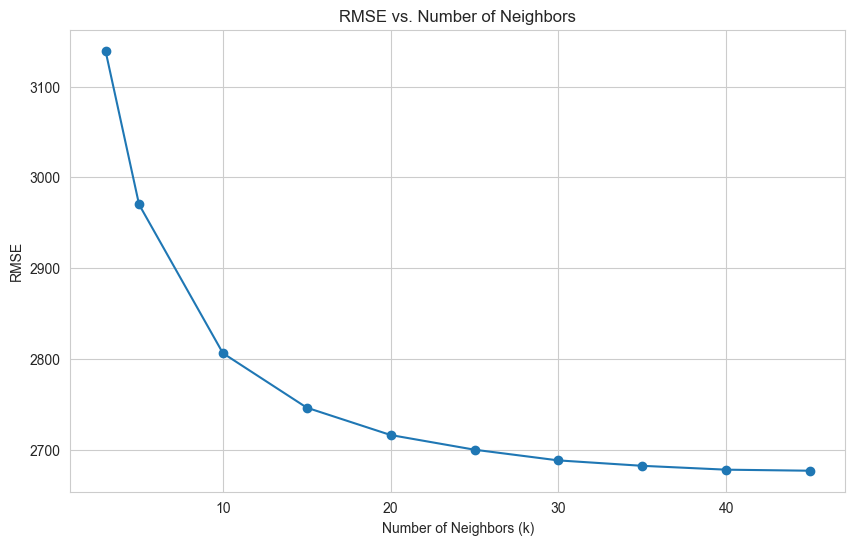
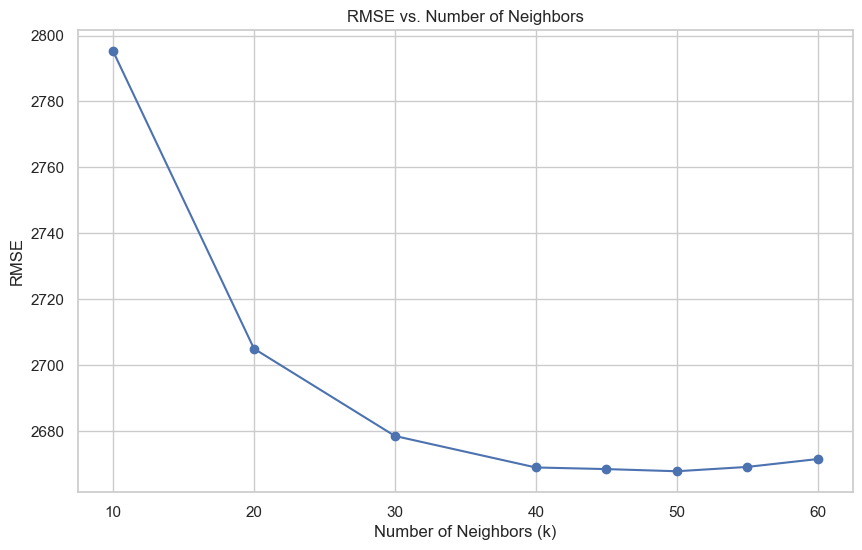
Energy analysis blog final draft v1

diff --git a/my_flask_app/templates/energy_analysis_blog.html b/my_flask_app/templates/energy_analysis_blog.html
@@ -14,7 +14,7 @@
     </div></i></p>
           
 
-    [WIP] Follow along on <a href="https://github.com/zoemcbride/energy-data-lab">my Github repo</a>!
+    Follow along on <a href="https://github.com/zoemcbride/energy-data-lab">my Github repo</a>!
     <p><p><p>
 
     <h3>Intro & Motivation</h3>
@@ -172,6 +172,7 @@
         <li>Season, derived from the month, one-hot encoded as true/false for each season</li>
         <li>Hour of the day, transformed using both sin(2pi*x) and cos(2pi*x) to indicate the cyclical nature of the hour feature</li>
         <li>Previous day load, scaled with a standard scalar</li>
+        <li>Spanish holiday binary, where 1 represents a holiday (such as Christmas on 12/25) and 0 represents no holiday</li>
       </ul>
       The target vector, of course, was the total actual load. The benchmarking vector was the total load forecasted by the TSO.
     </p>
@@ -184,7 +185,7 @@
 
 
     <h4>K-Nearest Neighbors (KNN)</h4>
-    <!--<img src="{{ url_for('static', filename='images/knn_nearestneighbors_rmse.png') }}" alt="KNN RMSE versus Number of Neighbors" class="center" style="
+    <img src="{{ url_for('static', filename='images/knn_nearestneighbors_rmse.png') }}" alt="KNN RMSE versus Number of Neighbors" class="center" style="
             max-width: 100%;
             max-height: 400px;
             margin-left: auto;
@@ -192,12 +193,12 @@
             align-self: center;
             display: block;
             ">
-    With KNN, the only real hyperparameter to play with is the number of neighbors (k). The above graph shows the root mean squared error (RMSE) plotted against the number of neighbors (k) across all five cross validation folds. As can be seen in the above graph, around k=40 the RMSE plateaus, suggesting that increasing k further will not significantly improve the model's performance. Thus, from here I calculate the final mean absolute error (MAE) and RMSE of our KNN model using k=40 against the test set. I can then similarly calculate the RMSE for the benchmark. Thus, the final numbers for my KNN model are:
+    With KNN, the only real hyperparameter to play with is the number of neighbors (k). The above graph shows the root mean squared error (RMSE) plotted against the number of neighbors (k) across all five cross validation folds. As can be seen in the above graph, around k=50 the RMSE plateaus, suggesting that increasing k further will not significantly improve the model's performance. Thus, from here I calculate the final mean absolute error (MAE) and RMSE of our KNN model using k=50 against the test set. I can then similarly calculate the RMSE for the benchmark. Thus, the final numbers for my KNN model are:
     <ul>
-      <li>My KNN Model RMSE: 2553.0 MW</li>
+      <li>My KNN Model RMSE: 2538.92 MW</li>
       <li>Benchmark RMSE: 378.28 MW</li>
 
-      <li>My kNN model's RMSE is around 8.89% of the mean load value.</li>
+      <li>My kNN model's RMSE is around 8.84% of the mean load value.</li>
       <li>The benchmark's RMSE is around 1.32% of the mean load value.</li>
     </ul>
 
@@ -213,11 +214,10 @@
     
     <p class="opening-paragraph">Overall, while my KNN model could certainly be improved upon, it seems to capture the overall trend and shape of the load effectively.  However, it struggles with the magnitude, generally underpredicting (though occasionally overpredicting) the peak load values. </p>
 
-    -->    
 
     <h4>Random Forest (RF)</h4>
-    <!--
-    <p class="opening-paragraph"></p>
+    
+    
     <img src="{{ url_for('static', filename='images/rf_numbertrees_rmse.png') }}" alt="RF RMSE versus Number of Trees" class="center" style="
             max-width: 100%;
             max-height: 400px;
@@ -226,16 +226,19 @@
             align-self: center;
             display: block;
             ">
-    With RF, there are several hyperparameters you can tune. To start, I looked into the number of trees. The above graph shows the root mean squared error (RMSE) plotted against the number of trees (n_estimators) across all five cross validation folds. As can be seen in the above graph, around n_estimators=200 the RMSE plateaus, suggesting that increasing the number of trees further will not significantly improve the model's performance. Thus, from here I calculate the final mean absolute error (MAE) and RMSE of our RF model using n_estimators=200 against the test set. I can then similarly calculate the RMSE for the benchmark. Thus, the final numbers for my RF model are:
+
+    <p class="opening-paragraph">With RF, there are several hyperparameters you can tune. To start, I looked into the number of trees. The above graph shows the root mean squared error (RMSE) plotted against the number of trees (n_estimators) across all five cross validation folds for one iteration of my RF model. As can be seen in the above graph, around n_estimators = 200 to 250 the RMSE plateaus, suggesting that increasing the number of trees further will not significantly improve the model's performance. From here, I then evaluated two other hyperparameters -- maximum depth of the trees and maximum number of features to include -- to further improve the performance of the RF model.  After hyperparameter tuning, I determined the best model had 250 trees with a maximum depth of 10 and maximum number of features of 5.  The max depth parameter controls the maximum number of levels in each decision tree; limiting depth can prevent overfitting by reducing the complexity of the model. Conversely, too shallow trees might not capture sufficient complexity, leading to underfitting. The max features parameter determines how many features each tree is allowed to try to split on at each node, and setting this can help ensure that trees in the ensemble are diverse, which often improves model performance due to the ensemble capturing a wider array of patterns in the data.</p>
+     
+     <p class="opening-paragraph">Next, I can calculate the final RMSE of our RF model using 250 trees of maximum depth of 10 and 5 features against the test set. I can then similarly calculate the RMSE for the benchmark. Thus, the final numbers for my RF model are:
     <ul>
-      <li>My RF Model RMSE: 2547.61 MW</li>
+      <li>My RF Model RMSE: 2452.98 MW</li>
       <li>Benchmark RMSE: 378.28 MW</li>
 
-      <li>My RF model's RMSE is around 8.87% of the mean load value.</li>
+      <li>My RF model's RMSE is around 8.54% of the mean load value.</li>
       <li>The benchmark's RMSE is around 1.32% of the mean load value.</li>
     </ul>
 
-    And below, a snapshot of my RF model (in green) compared to the benchmark (in red) and the actuals (in blue): </p>          
+    And below, a snapshot of my final RF model (in green) compared to the benchmark (in red) and the actuals (in blue): </p>          
     <img src="{{ url_for('static', filename='images/rf_benchmark_actuals_graph.png') }}" alt="RF vs Benchmark vs Actuals Graph" class="center" style="
             max-width: 100%;
             max-height: 400px;
@@ -245,8 +248,10 @@
             display: block;
             ">
     
-    <p class="opening-paragraph">Upon visual inspection of the RF model's predictions, it seems to capture the overall trend and shape of the load effectively. However, it struggles with the magnitude, both underpredicting and sometimes overpredicting the peak load values, similar to the KNN model. It is also a bit more "jaggedy" than it needs to be at times. I am wondering if this could be due to overfitting, ie that it is capturing too much noise in the training data, rather than an underlying trend. Additionally, both the KNN and RF models tend to over- and under-predict at similar points in time, which is interesting.</p> 
-  -->
+    <p class="opening-paragraph">Upon visual inspection of the RF model's predictions, it seems to capture the overall trend and shape of the load effectively. However, it struggles with the magnitude, both underpredicting and sometimes overpredicting the peak load values, similar to the KNN model. It is also a bit more "jaggedy" than it needs to be at times. Additionally, both the KNN and RF models tend to over- and under-predict at similar points in time, which is interesting. I explored the under- and over-predicting tendency further, and found that at the higher load values, my model underpredicts, but that at lower load values, my model overpredicts. </p>
+
+    <p class="opening-paragraph">Finally, when investigating the residual between my RF model and the actual load data, I found that the largest errors happened on a very peculiar day, June 2, 2018. In fact, 12 of the 20 "worst" predictions occured on this day. Upon further research, I found that Pedro Sanchez was sworn into office as the Prime Minister of Spain on this day (he is still the PM of Spain as of this writing). On June 2, 2018, the grid load peaked at around 40,000 MW, which is significantly higher than a the mean and median of the grid load, which are 28,000 MW. My model significantly underpredicts the load that day, and frankly, the impact of a new PM on the grid could not have been appropriately anticipated. This is a fascinating finding, but also one that I could not have expected my model to capture. </p>   
+  
 
     <!--<img src="{{ url_for('static', filename='images/rf_feature_importance.png') }}" alt="RF Feature Importance" class="center" style="
             max-width: 100%;
@@ -258,7 +263,11 @@
             ">-->
 
     <h3>Conclusions</h3>
-    <p class="opening-paragraph"></p>
+    <p class="opening-paragraph">In conclusion, my RF model achieves an RMSE of 2452.98 MW, which is about 8.54% of the mean load value, indicating a reasonably good fit to the load pattern despite not being flawless. Compared to the KNN model, the RF model is more accurate by 86 MW, or 0.3% of the mean load. A notable observation is the performance on June 2, 2018, when a significant deviation occurred due to the unforeseen event of a new Prime Minister being sworn in, underscoring the model's limitations in accounting for such events. On the other hand, the KNN model, while slightly less accurate with an RMSE of 2538.92 MW, offers a faster alternative, suitable for scenarios where speed is of the essence. </p>
+
+    <p class="opening-paragraph">As for future improvements, exploring a suite of sophisticated time-series forecasting methods like ARIMA, SARIMA, Prophet, LSTMs, or XGBoost stands as the logical next step, aiming to inch closer to the benchmark RMSE of 378.28 MW, which only represents about 1.32% of the mean load value. Fine-tuning the feature matrix could also unlock further potential; for instance, tweaking the previous day's load scaling or incorporating predictive scheduling elements like future election dates may provide additional predictive leverage. </p>
+
+    <p class="opening-paragraph">Overall, I am content with my model's performance. However, the journey towards optimization is an ongoing process, and with more time dedicated to testing and iteration, I am optimistic that an even more precise model is within reach.</p>
 
 <script data-goatcounter="https://zoemcbride.goatcounter.com/count"
 async src="//gc.zgo.at/count.js"></script>

diff --git a/my_flask_app/templates/base.html b/my_flask_app/templates/base.html
@@ -109,7 +109,7 @@
                     <ul class="dropdown-menu">
                       <li><a class="dropdown-item" href="{{ url_for('running_analysis_blog') }}">Running Analysis Using my Strava Data</a></li>
                       <li><a class="dropdown-item" href="{{ url_for('strava_analysis_howto') }}">How To Analyze <i>Your</i> Strava Data</a></li>
-                      <li><a class="dropdown-item" href="{{ url_for('energy_analysis_blog') }}">Time-Series Forecasting of the Spanish Energy Grid [WIP]</a></li>
+                      <li><a class="dropdown-item" href="{{ url_for('energy_analysis_blog') }}">Time-Series Forecasting of the Spanish Energy Grid</a></li>
                       <!--<li><a class="dropdown-item" href="#">Spotify Analysis - Coming Soon!</a></li>-->
                       <li><hr class="dropdown-divider"></li>  
                       <li><a class="dropdown-item" href="{{ url_for('side_projects') }}">All Projects</a></li>
